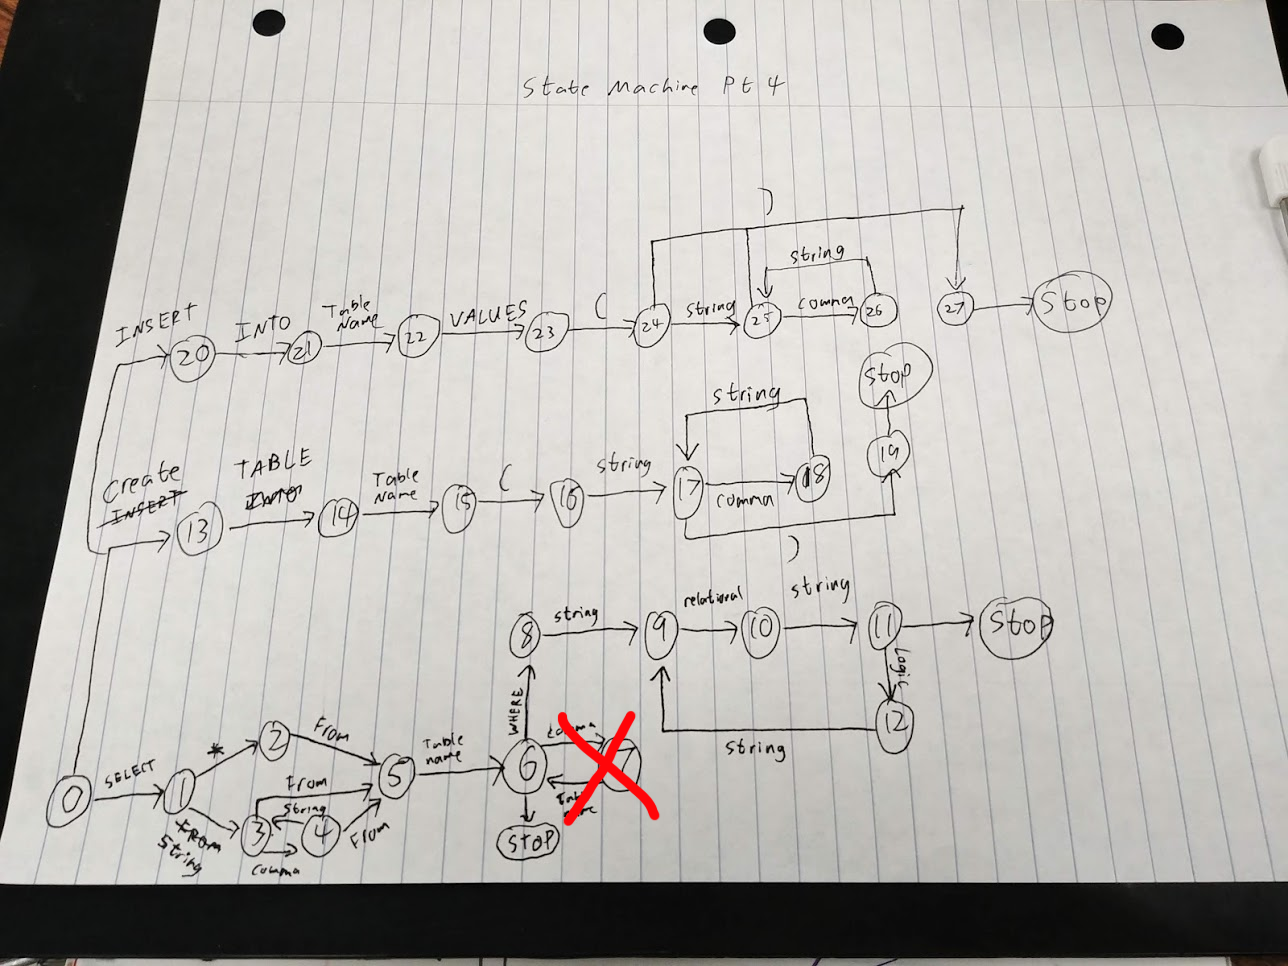
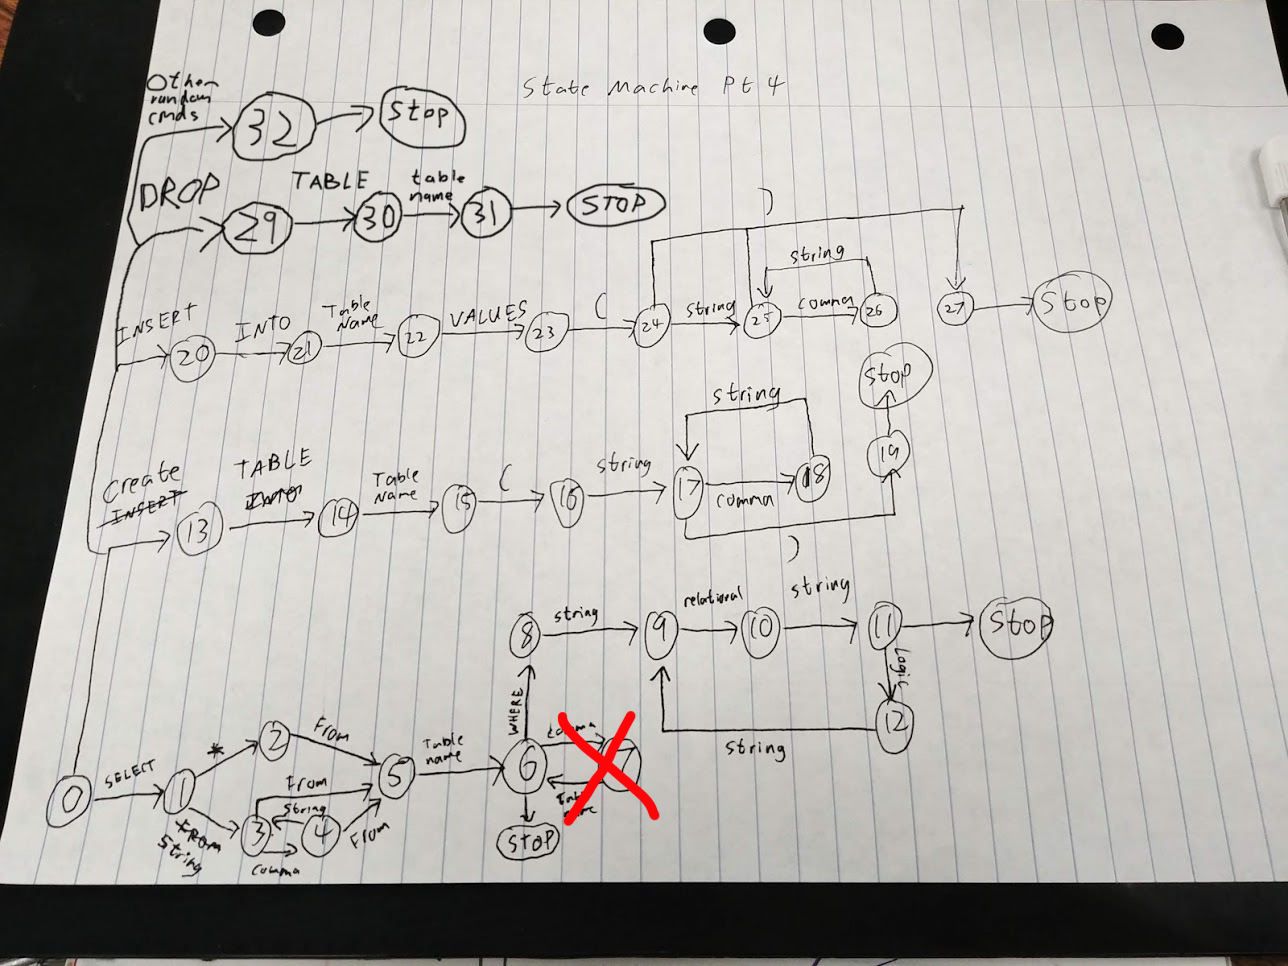
drop command and list tables command

Changed region(s): [[0.0932, 0.0621, 0.528, 0.2795]]

diff --git a/src/SQL.cpp b/src/SQL.cpp
@@ -1,12 +1,12 @@
 #include "SQL.h"
 
 SQL::SQL() {
+    print_welcome();
     get_tables();
-    print_table_list();
 }
 SQL::SQL(const SQL&) {
+    print_welcome();
     get_tables();
-    print_table_list();
 }
 
 SQL::~SQL() {
@@ -22,7 +22,7 @@ SQL& SQL::operator=(const SQL& other) {
         delete *it;
     }
     get_tables();
-    print_table_list();
+    // print_table_list();
     return *this;
 }
 
@@ -41,43 +41,73 @@ bool SQL::execute_string(std::string command, bool verbose) {
         #ifdef DEBUG
             std::cout << parse_tree << '\n';
         #endif
+
+        std::string command;
+        std::string table_name;
+        std::vector<std::string> fields;
+        if (parse_tree["command"].size() > 0)
+            command = parse_tree["command"][0];
+        if (parse_tree["table_name"].size() > 0)
+            table_name = parse_tree["table_name"][0];
+        if (parse_tree["fields"].size() > 0)
+            fields = parse_tree["fields"];
         // select
-        if (parse_tree["command"][0] == "select") {
-            std::string table_name = parse_tree["table_name"][0];
+        if (command == "SELECT") {
             if (!tables.contains(table_name)) {
                 Table invalid_table(table_name);
             }
-            tables[table_name]->select(parse_tree["fields"],
-                                       parse_tree["where"]);
-            Table temp("temp");
-            std::cout << temp << '\n';
+            else {
+                tables[table_name]->select(fields, parse_tree["where"]);
+                Table temp("temp");
+                std::cout << temp << '\n';
+            }
         }
         // create
-        if (parse_tree["command"][0] == "create" ||
-            parse_tree["command"][0] == "make") {
-            std::string table_name = parse_tree["table_name"][0];
+        if (command == "CREATE" || command == "MAKE") {
             if (tables.contains(table_name)) {
                 delete tables[table_name];
                 tables[table_name] = nullptr;
             }
             if (!tables.contains(table_name)) {
                 std::ofstream fout;
-                fout.open("tables.txt", std::ios::app);
+                fout.open(TABLES_FILE, std::ios::app);
                 fout << '\n' << table_name;
                 fout.close();
             }
-            tables[table_name] = new Table(table_name, parse_tree["fields"]);
+            tables[table_name] = new Table(table_name, fields);
             if (verbose) {
-                std::cout << *tables[parse_tree["table_name"][0]] << '\n';
+                std::cout << *tables[table_name] << '\n';
             }
         }
         // insert
-        if (parse_tree["command"][0] == "insert") {
-            tables[parse_tree["table_name"][0]]->insert_into(
-                parse_tree["fields"]);
-            if (verbose) {
-                std::cout << *tables[parse_tree["table_name"][0]] << '\n';
+        if (command == "INSERT") {
+            if (!tables.contains(table_name)) {
+                Table invalid_table(table_name);
             }
+            else {
+                tables[table_name]->insert_into(fields);
+                if (verbose) {
+                    std::cout << *tables[table_name] << '\n';
+                }
+            }
+        }
+        // drop
+        if (command == "DROP") {
+            if (tables.contains(table_name)) {
+                remove(tables[table_name]->get_filename().c_str());
+                delete tables[table_name];
+                tables[table_name] = nullptr;
+                tables.erase(table_name);
+                std::ofstream fout;
+                fout.open(TABLES_FILE);
+                for (auto it = tables.begin(); it != nullptr; ++it) {
+                    fout << it.key() << '\n';
+                }
+                fout.close();
+            }
+        }
+        if (command == "TABLES") {
+            print_table_list();
         }
         return true;
     } catch (std::runtime_error e) {
@@ -108,11 +138,11 @@ void SQL::execute_file(std::string filename) {
 void SQL::get_tables() {
     // create file if it dont exist
     std::ofstream fout;
-    fout.open("tables.txt", std::ios::app);
+    fout.open(TABLES_FILE, std::ios::app);
     fout.close();
 
     std::ifstream fin;
-    fin.open("tables.txt");
+    fin.open(TABLES_FILE);
     std::string tablename;
     while (fin >> tablename) {
         tables[tablename] = new Table(tablename);
@@ -120,7 +150,6 @@ void SQL::get_tables() {
     fin.close();
 }
 void SQL::print_table_list() {
-    std::cout << "Found and indexed tables: " << '\n';
     int num = 1;
     for (auto it = tables.begin(); it != nullptr; ++it, ++num) {
         std::cout << std::setw(20) << std::left << it.key();
@@ -129,4 +158,8 @@ void SQL::print_table_list() {
         }
     }
     std::cout << '\n';
+}
+void SQL::print_welcome() {
+    std::cout << "JasonSQL version 1.0.0" << '\n';
+    std::cout << "\"tables\" for table list" << '\n';
 }

diff --git a/src/Parser/SQLStateMachine.cpp b/src/Parser/SQLStateMachine.cpp
@@ -10,6 +10,8 @@ SQLStateMachine::SQLStateMachine() {
     keywords["WHERE"] = sql_parser::WHERE;
     keywords["TABLE"] = sql_parser::TABLE;
     keywords["VALUES"] = sql_parser::VALUES;
+    keywords["DROP"] = sql_parser::DROP;
+    keywords["TABLES"] = sql_parser::LIST_TABLES;
     keywords["*"] = sql_parser::ASTERISK;
     keywords[","] = sql_parser::COMMA;
     keywords["("] = sql_parser::OPEN_PARENTH;
@@ -57,6 +59,11 @@ SQLStateMachine::SQLStateMachine() {
     state_machine::mark_fail(state_table, 26);
     state_machine::mark_success(state_table, 27);
     state_machine::mark_fail(state_table, 28);
+    state_machine::mark_fail(state_table, 29);
+    state_machine::mark_fail(state_table, 30);
+    state_machine::mark_success(state_table, 31);
+    state_machine::mark_success(state_table, 32);
+
     #ifdef ENABLE_NON_STANDARD_SQL
         // insert command parenthesis skipping
         state_machine::mark_success(state_table, 25);
@@ -119,6 +126,13 @@ SQLStateMachine::SQLStateMachine() {
 
     state_machine::mark_cell(22, state_table, sql_parser::VALUES, 23);
 
+    // command: drop
+    state_machine::mark_cell(0, state_table, sql_parser::DROP, 29);
+    state_machine::mark_cell(29, state_table, sql_parser::TABLE, 30);
+    state_machine::mark_cell(30, state_table, sql_parser::STRING, 31);
+
+    // list tables
+    state_machine::mark_cell(0, state_table, sql_parser::LIST_TABLES, 32);
     #ifdef ENABLE_NON_STANDARD_SQL
         // insert command parenthesis skipping
         state_machine::mark_cell(23, state_table, sql_parser::STRING, 25);

diff --git a/src/Parser/Parser.cpp b/src/Parser/Parser.cpp
@@ -39,25 +39,45 @@ MultiMap::MultiMap<std::string, std::string> Parser::parse(std::string input) {
                 throw std::runtime_error("Error unexpected token: " +
                                          token_string);
                 break;
+            // select
             case 1:
+            // create
             case 13:
+            // insert
             case 20:
-                parse_tree["command"] += token_string;
+            // drop
+            case 29:
+            // any 1 word commands i might want to add
+            case 32:
+                parse_tree["command"] += string_util::uppercase(token_string);
                 break;
+            // select: asterisk
             case 2:
+            // select: string
             case 3:
+            // create: field name
             case 17:
+            // insert: entry name
             case 25:
                 parse_tree["fields"] += token_string;
                 break;
+            // select: table name
             case 6:
+            // create: table name
             case 15:
+            // insert: table name
             case 22:
+            // drop: table name
+            case 31:
                 parse_tree["table_name"] += token_string;
                 break;
+            // field name
             case 9:
+            // relational
             case 10:
+            // entry name
             case 11:
+            // logical
             case 12:
                 parse_tree["where"] += token_string;
                 break;

diff --git a/include/Parser/Parser.h b/include/Parser/Parser.h
@@ -27,6 +27,6 @@ private:
 public:
     Parser() { set_string(""); };
     Parser(std::string input) { set_string(input); };
-    // converts the command into a parse tree
+    // converts the command into a parse tree, uppercases commands
     MultiMap::MultiMap<std::string, std::string> parse(std::string input);
 };

diff --git a/include/SQL.h b/include/SQL.h
@@ -6,10 +6,12 @@
 
 class SQL {
 private:
+    const char* TABLES_FILE = "tables.txt";
     Parser parser;
     Map::Map<std::string, Table*> tables;
     void get_tables();
     void print_table_list();
+    void print_welcome();
 public:
     SQL();
     // this just overrides the default shallow copy

diff --git a/include/Parser/keywords.h b/include/Parser/keywords.h
@@ -14,6 +14,8 @@ enum Keyword {
     WHERE,
     TABLE,
     VALUES,
+    DROP,
+    LIST_TABLES,
     ASTERISK,
     COMMA,
     OPEN_PARENTH,
